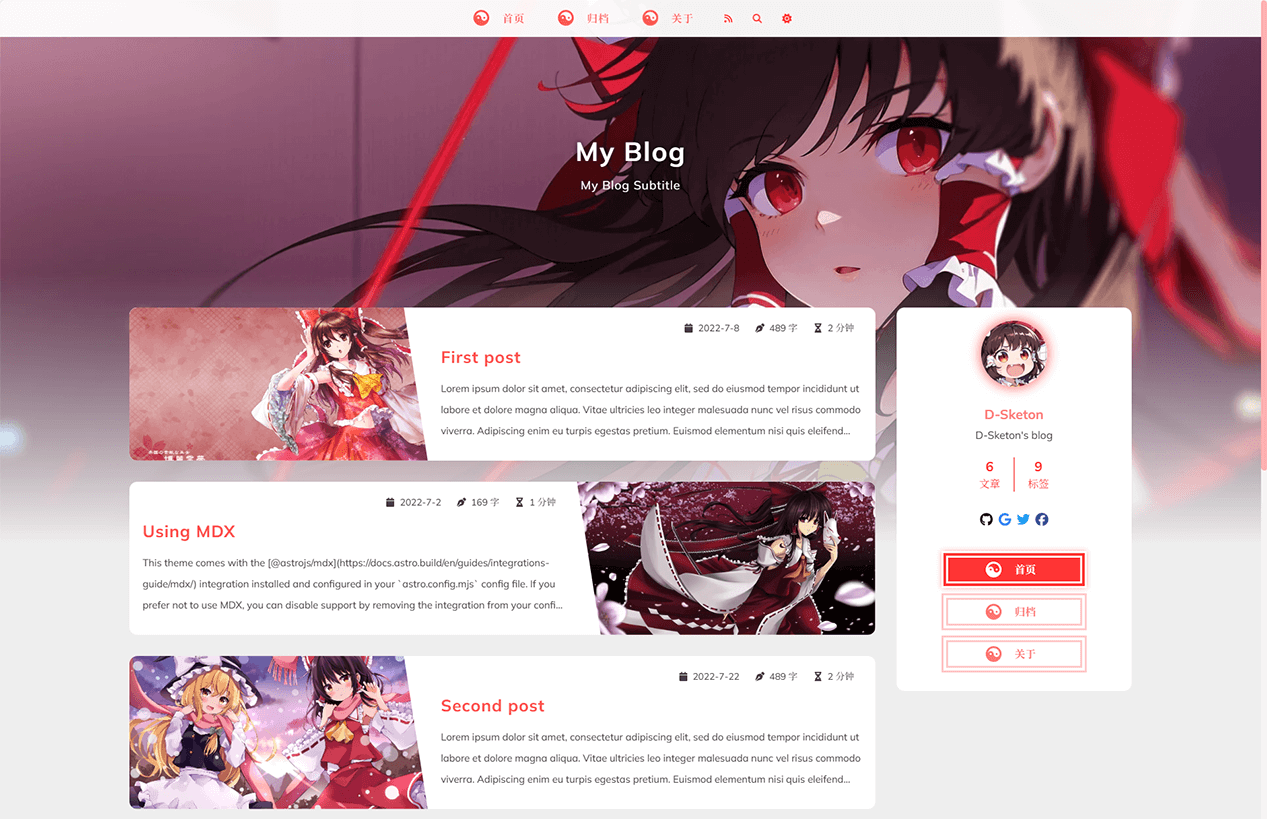
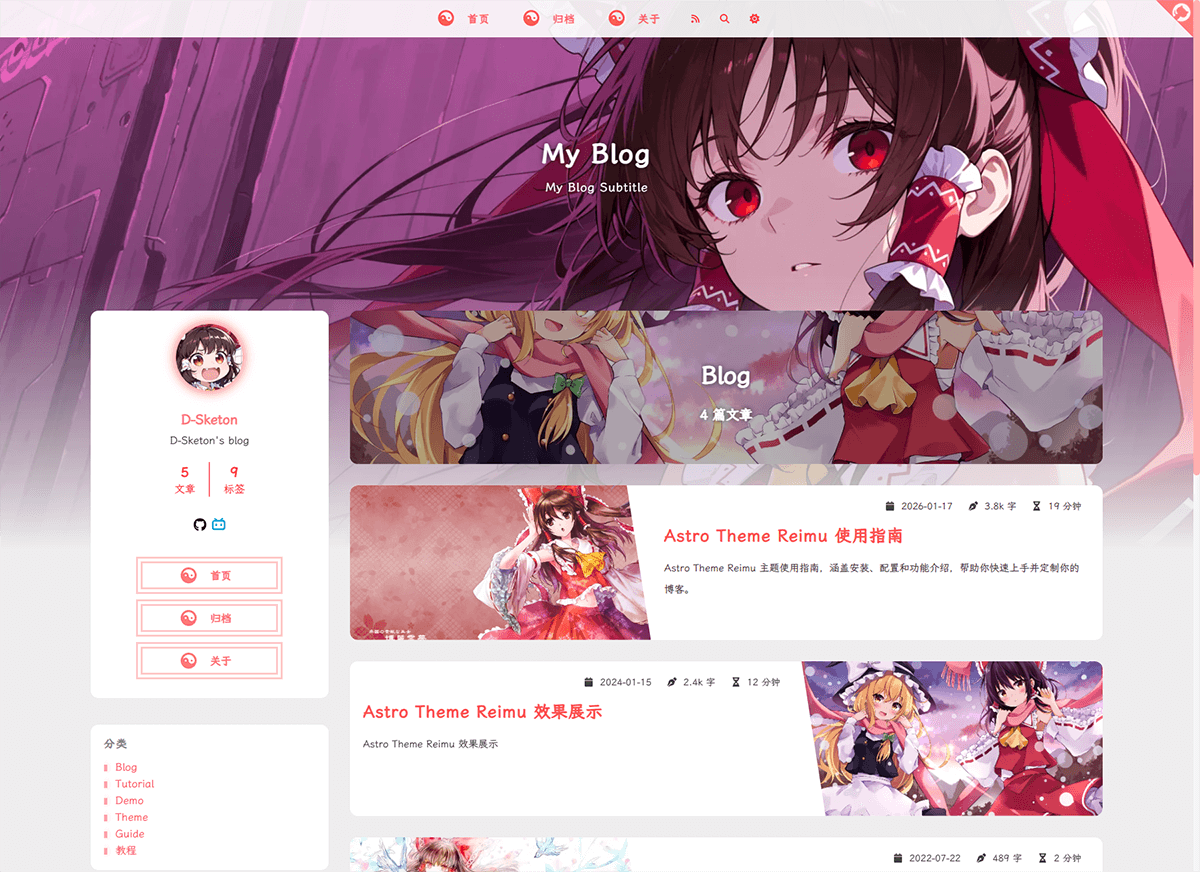
chore: bump version

diff --git a/CHANGELOG.md b/CHANGELOG.md
@@ -1,3 +1,82 @@
+## 0.4.0
+
+**2025-01-17**
+
+### 特性
+
+- 新增鼠标特效支持 (`mouse-firework`)，可通过 `firework` 配置项启用，支持移动端禁用选项
+- 新增侧边栏小部件支持 (`widgets`)，支持分类、标签、标签云、归档、最近文章等小部件
+- 新增首页分类卡片支持 (`home_categories`)，可展示指定分类及其封面图
+- 新增 ICP 备案信息支持，包括工信部备案和萌国 ICP 备案
+- 新增三角徽标支持 (`triangle_badge`)，可在页面角落显示 GitHub 等图标
+- 新增 Giscus、Utterances、Twikoo、Disqus 评论系统支持
+- 新增文章过期提醒功能 (`outdate`)，可自定义过期天数
+- 新增文章分享功能 (`share`)，支持微博、QQ、微信、Twitter、Facebook 等平台
+- 新增赞助功能 (`sponsor`)，支持展示赞助二维码
+- 新增版权声明国际化支持，可自定义显示内容（作者、链接、标题、日期、许可协议等）
+- 新增丰富的内置 MDX 组件：
+  - `AlertBlockquote` - 警告提示框（支持 info、warning、danger、tip、important 类型）
+  - `Details` - 可折叠详情组件
+  - `TagRoulette` - 标签轮盘组件
+  - `Grid` / `GridCell` - 网格布局组件
+  - `Tabs` / `TabItem` - 标签页组件
+  - `Gallery` - 照片墙组件
+  - `Link` - 内部/外部链接卡片组件
+  - `HeatMapCard` - 热力图卡片组件（基于访问量数据）
+- 支持在 MDX 文件中展示 Mermaid 流程图，主题自动跟随网站暗色/亮色模式
+- 代码块基于 Expressive Code 实现，新增以下功能：
+  - 支持行号显示 (via `@expressive-code/plugin-line-numbers`)
+  - 支持自动主题切换，代码高亮主题跟随网站暗色/亮色模式
+- 头图随机算法改为 Fisher-Yates 洗牌算法，提高随机性和性能
+- 新增自定义字体支持，使用 `vite-plugin-font` 自动扫描和优化字体加载
+
+### 重构
+
+- 配置文件从 YAML 格式迁移到 TypeScript 格式，提供更好的类型安全和智能提示
+- 图片灯箱从 baguettebox 迁移到 PhotoSwipe
+- 移除 Lozad 懒加载库，改用原生 `loading="lazy"`
+- 更换默认头图
+- 更换默认字体为霞鹜文楷 (LXGWWenKai SC)，提升中文显示效果
+
+---
+
+### Features
+
+- Added mouse firework effects support (`mouse-firework`) configurable via `firework` option with mobile disable capability
+- Added sidebar widgets support (`widgets`) including category, tag, tag cloud, archive, and recent posts widgets
+- Added home category cards support (`home_categories`) to display specified categories with cover images
+- Added ICP filing information support including MIIT filing and Moe ICP filing
+- Added triangle badge support (`triangle_badge`) to display GitHub or other icons in page corners
+- Added support for Giscus, Utterances, Twikoo, and Disqus comment systems
+- Added post outdated warning feature (`outdate`) with customizable expiration days
+- Added post sharing feature (`share`) supporting Weibo, QQ, WeChat, Twitter, Facebook, and more platforms
+- Added sponsorship feature (`sponsor`) with QR code display support
+- Added internationalized copyright notice with customizable content (author, link, title, date, license, etc.)
+- Added rich built-in MDX components:
+  - `AlertBlockquote` - Alert boxes (supports info, warning, danger, tip, important types)
+  - `Details` - Collapsible details component
+  - `TagRoulette` - Tag roulette component
+  - `Grid` / `GridCell` - Grid layout components
+  - `Tabs` / `TabItem` - Tab components
+  - `Gallery` - Photo gallery component
+  - `Link` - Internal/external link card component
+  - `HeatMapCard` - Heatmap card component (based on visit data)
+  - `FriendCard` - Friend link card component
+- Added support for Mermaid diagrams in MDX files with automatic theme switching for dark/light mode
+- Reimplemented code blocks with Expressive Code featuring:
+  - Line numbers display (via `@expressive-code/plugin-line-numbers`)
+  - Automatic theme switching with syntax highlighting following site dark/light mode
+- Improved banner randomization using Fisher-Yates shuffle algorithm for better randomness and performance
+- Added custom font support using `vite-plugin-font` for automatic font scanning and optimization
+
+### Refactor
+
+- Migrated configuration files from YAML to TypeScript for better type safety and IntelliSense
+- Migrated image lightbox from baguettebox to PhotoSwipe
+- Removed Lozad lazy loading library in favor of native `loading="lazy"`
+- Updated default banner image
+- Changed default font to LXGWWenKai SC for improved Chinese text rendering
+
 ## 0.3.0
 
 **2025-12-14**
